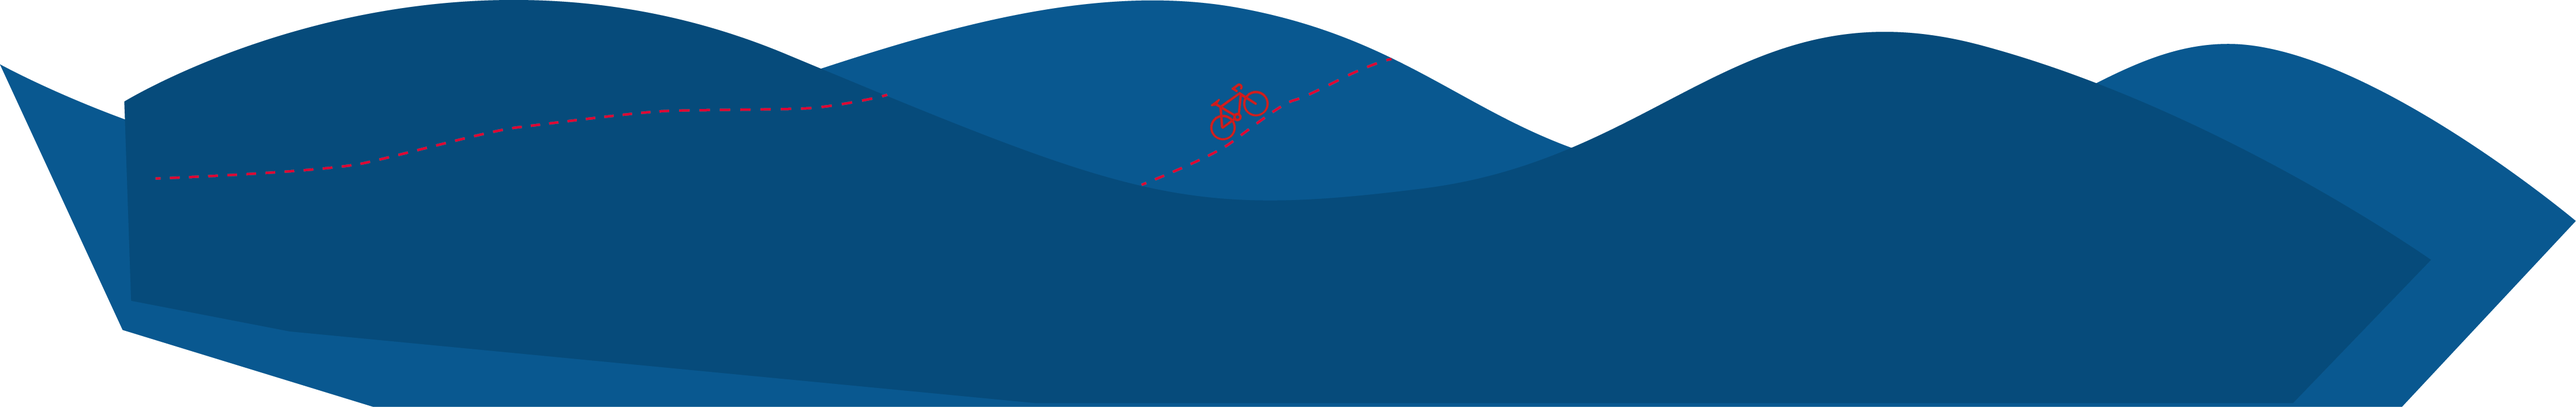
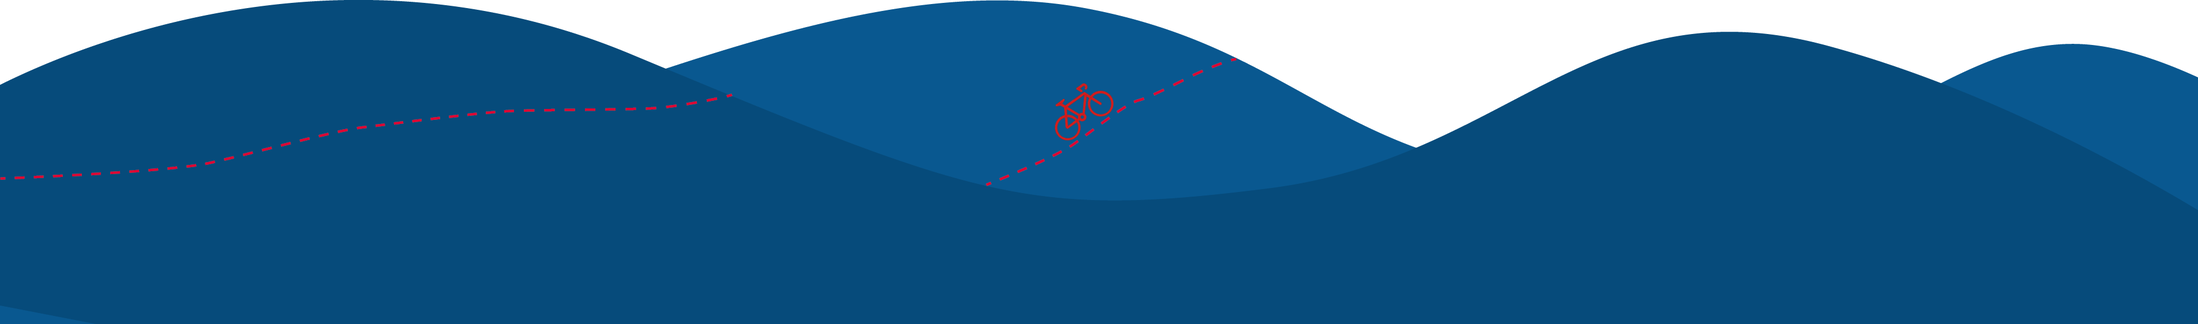
footer

diff --git a/style.css b/style.css
@@ -10,7 +10,7 @@ body {
     display: block;
     margin: -3em;
     padding: 0;
-    word-break: break;
+    object-fit: cover;
 }
 
 .Content {
@@ -60,15 +60,13 @@ footer {
     background-image: url(img/footer.png);
     background-repeat: no-repeat;
     background-size: cover;
-    margin: -3em;
-    margin-top: 3em;
-    padding: 1em;
-    height: 4em;
+    height: 10em;
 }
 
 footer > a {
-    margin: none;
-    margin-bottom: -20em;
+   margin-top: -3em;
+   padding-top: -5em;
+   bottom: 0;
 }
 /* roboto-regular - latin */
 @font-face {

diff --git a/index.html b/index.html
@@ -36,9 +36,12 @@
       <p>2020 bot ein paar unvergessliche Momente</p>
   </div>
    
-  <footer><a href="Impressum.html">Impressum & Datenschutz</a>
-   <a href="Zeitliste.html">Zeitstrahl</a>
-   <a href="Doku.html">Dokumentation</a></footer>
+  <footer>
+     <div class="FooterLinks">
+      <a href="Impressum.html">Impressum & Datenschutz</a>
+      <a href="Zeitliste.html">Zeitstrahl</a>
+      <a href="Doku.html">Dokumentation</a></footer>
+     </div>
   
 </body>
 </html>
